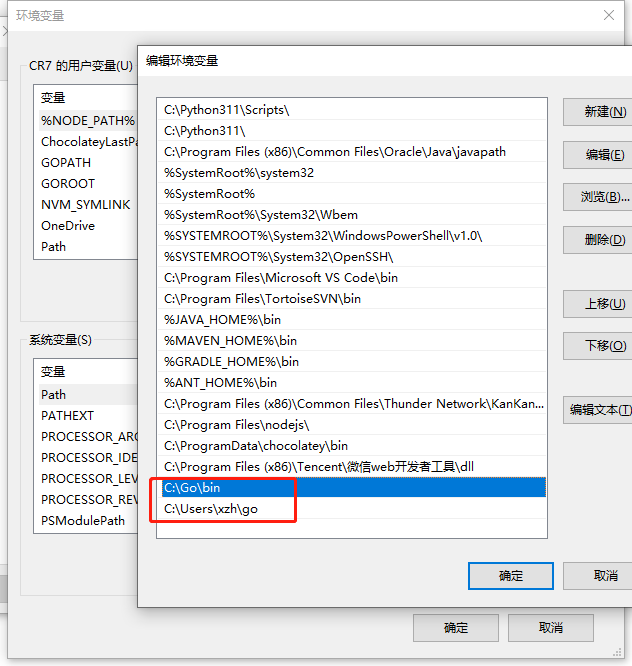
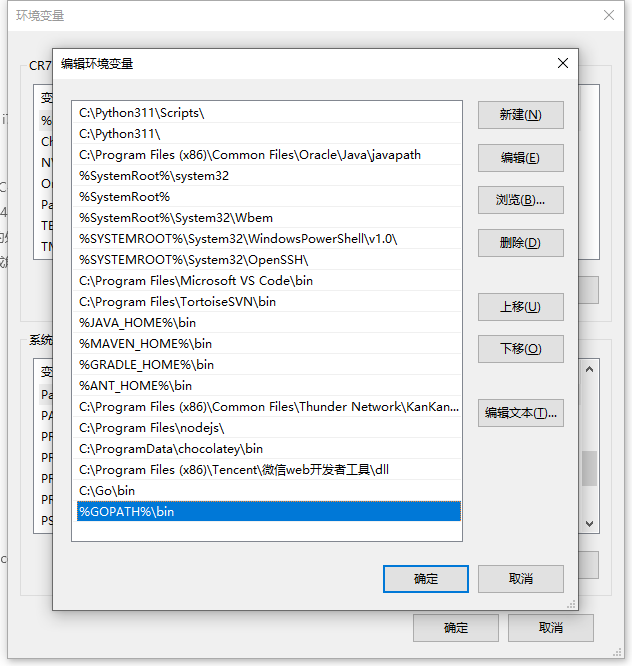
1

Changed region(s): [[0.0601, 0.0601, 1.0, 0.9309], [0.7516, 0.4204, 0.8718, 0.5706], [0.0, 0.8408, 0.0301, 0.9309]]

diff --git a/docs/deploy/centos7.md b/docs/deploy/centos7.md
@@ -2030,13 +2030,16 @@ npm install ts-node -g --force  # 配合插件Code Runner
 
 ### 4.4 Golang
 
+#### 4.4.1 配置环境
+
 ```bash
 wget https://dl.google.com/go/go1.13.4.linux-amd64.tar.gz          # 下载
 tar zxvf go1.13.4.linux-amd64.tar.gz -C /usr/local/
 
-echo 'export PATH=$PATH:/usr/local/go/bin'>>/etc/profile            # SDK
+echo 'export GOROOT=/usr/local/go'>>/etc/profile                    # go安装目录
 echo 'export GOPATH=/home/xzh/go'>>/etc/profile                     # 工作空间
-echo 'export GOBIN=/home/xzh/go/bin'>>/etc/profile                  # 生成可执行文件路径
+echo 'export GOBIN=$GOPATH/bin'>>/etc/profile                       # 生成可执行文件路径
+echo 'export PATH=$PATH:$GOROOT/bin'>>/etc/profile                  # 全局配置
 echo 'export GO111MODULE=on'>>/etc/profile                          # 模块支持
 echo 'export GOPROXY=https://goproxy.cn'>>/etc/profile              # 模块代理
 echo 'export http_proxy=http://172.17.17.165:7890'>>/etc/profile    # 翻墙
@@ -2045,6 +2048,30 @@ source /etc/profile
 
 go version
 go env
+```
+
+#### 4.4.2 环境验证
+
+```bash
+mkdir /home/xzh/go/src/markdown-renderer -p
+cd markdown-renderer
+go mod init xzh/markdown-renderer
+vi main.go
+```
+
+```go
+package main
+import (
+    "fmt"
+)
+func main()  {
+    fmt.Println("hello,word")
+}
+```
+
+```bash
+go run main.go
+go install
 ```
 
 ### 4.5 Python

diff --git a/docs/deploy/windows10.md b/docs/deploy/windows10.md
@@ -107,45 +107,34 @@ keytool -genkey -alias tomcat -keyalg RSA -keystore d:/tomcat.keystore
 
 #### 2.3.1 设置环境变量
 
+安装
+
 ![](../../assets/_images/deploy/win10/go_1.png)
+
+设置安装路径
 
 ![](../../assets/_images/deploy/win10/go_2.png)
 
+设置工程代码路径
+
 ![](../../assets/_images/deploy/win10/go_3.png)
+
+在path中增加：C:\Go\bin;%GOPATH%\bin;
 
 ![](../../assets/_images/deploy/win10/go_4.png)
 
-
-添加代理地址或者使用终端命令
-
-![](../../assets/_images/deploy/win10/go_5.png)
+GO111MODULE设置
 
 ```bash
 go env -w GO111MODULE=on
 go env -w GOPROXY=https://goproxy.cn,direct
+```
 
+验证
+
+```bash
 go version
 go env
-```
-
-#### 2.3.2 初始化项目
-
-```bash
-go mod init xzh/markdown-renderer
-```
-
-```go
-package main
-import (
-    "fmt"
-)
-func main()  {
-    fmt.Println("hello,word")
-}
-```
-
-```bash
-go run hello.go
 ```
 
 ### 2.4 Python Anaconda
